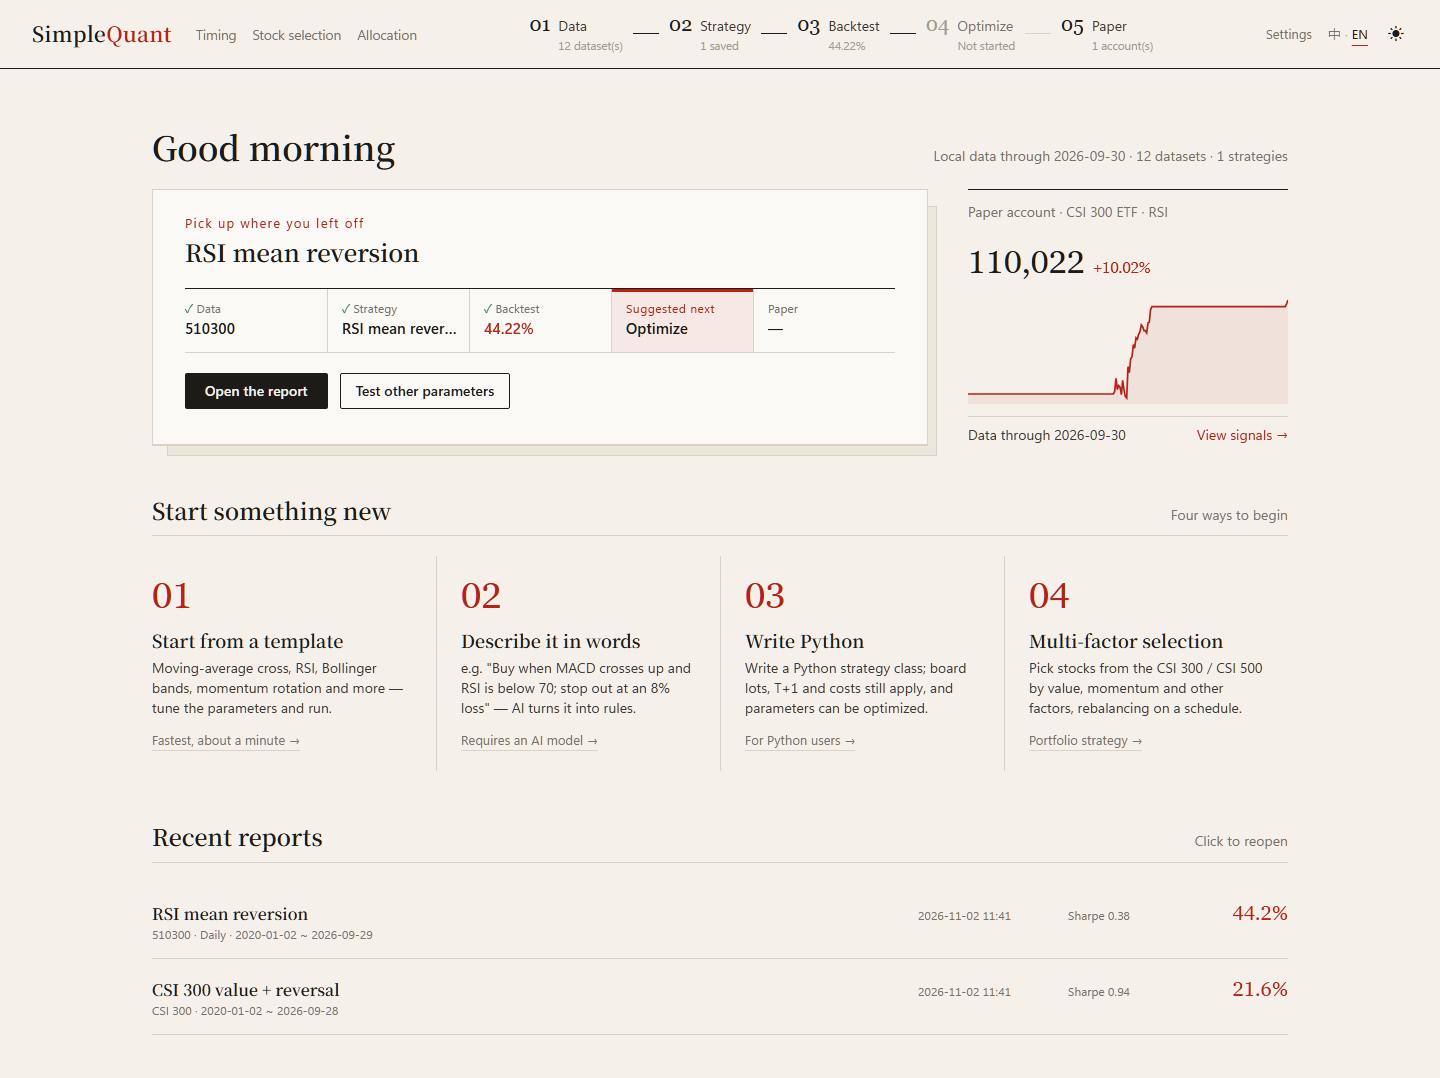
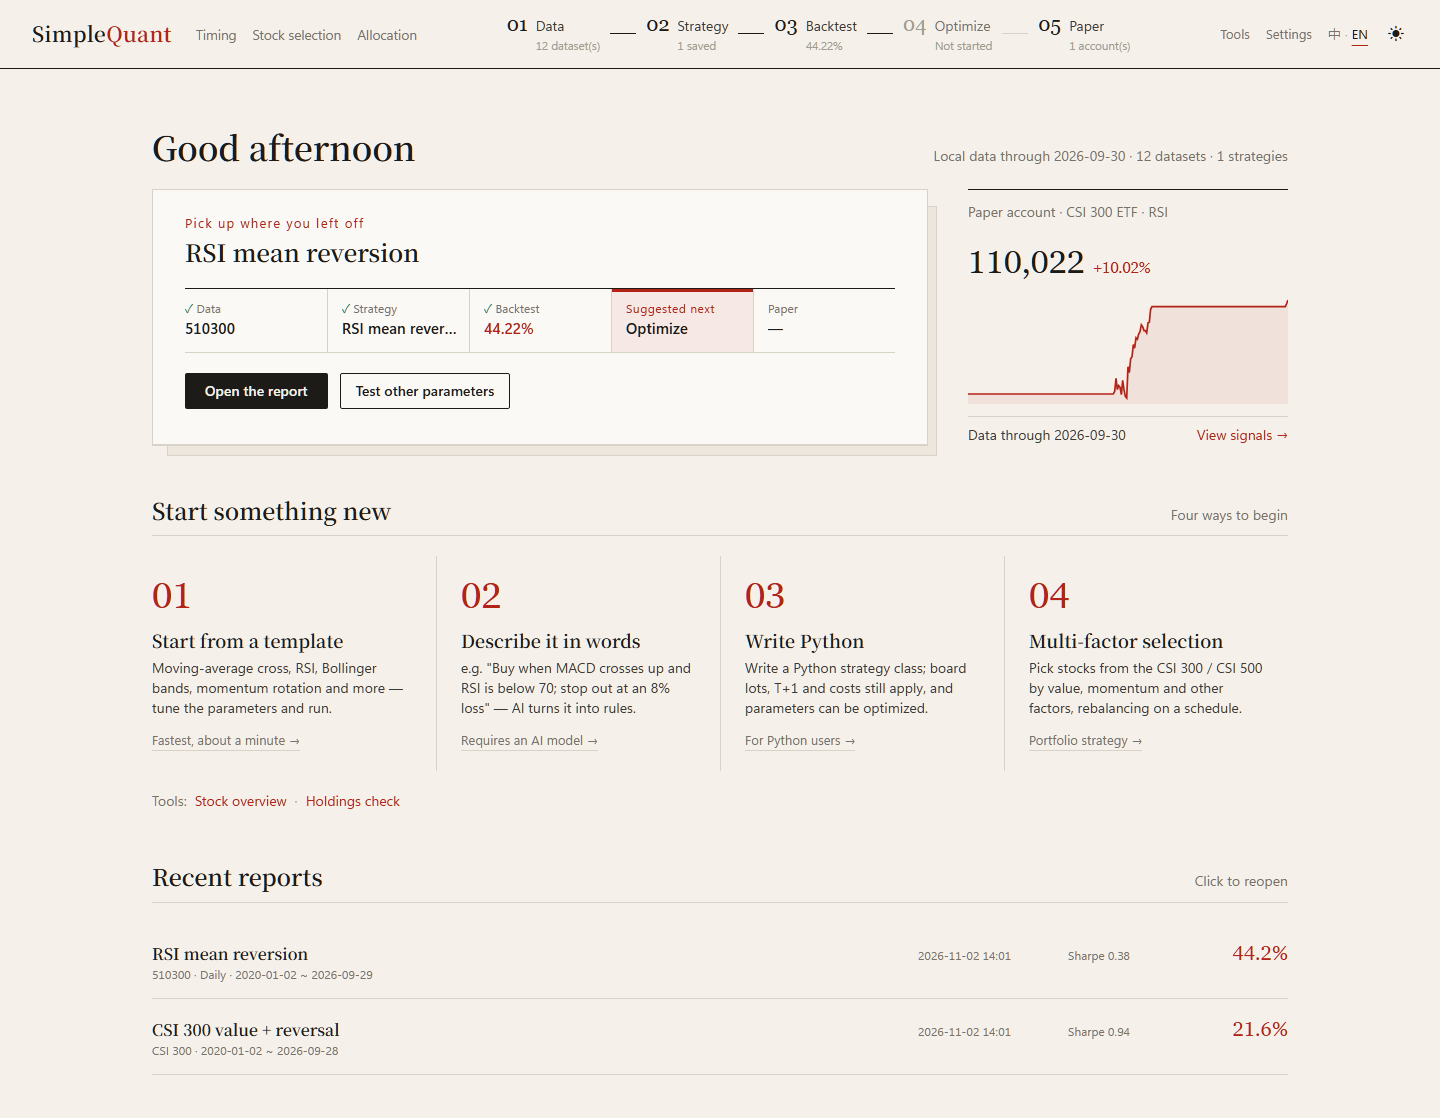
SimpleQuant 2.4.0：个股概览、持仓诊断移到「工具」页；选股流程「01 数据」指向选股页数据标签

diff --git a/simplequant/__init__.py b/simplequant/__init__.py
@@ -1,3 +1,3 @@
 """SimpleQuant???? A ????????Backtrader ???"""
 
-__version__ = "2.3.0"
+__version__ = "2.4.0"

diff --git a/CHANGELOG.md b/CHANGELOG.md
@@ -5,7 +5,7 @@
 
 Changes in each release. `tools/release.py` copies the matching section into the GitHub release notes.
 
-## 未发布
+## 2.4.0（2026-11-02）
 
 ### 更新内容
 - 改进：「个股概览」「持仓诊断」从选股页移至新的「工具」页（报头右上角「设置」左侧，首页「开始新的工作」下方也有入口）。两项沿用原有的输入与结果，持仓诊断与选股页共用已载入的数据，不会重复载入；选股回测结果中点击入选股票打开个股概览的方式不变
